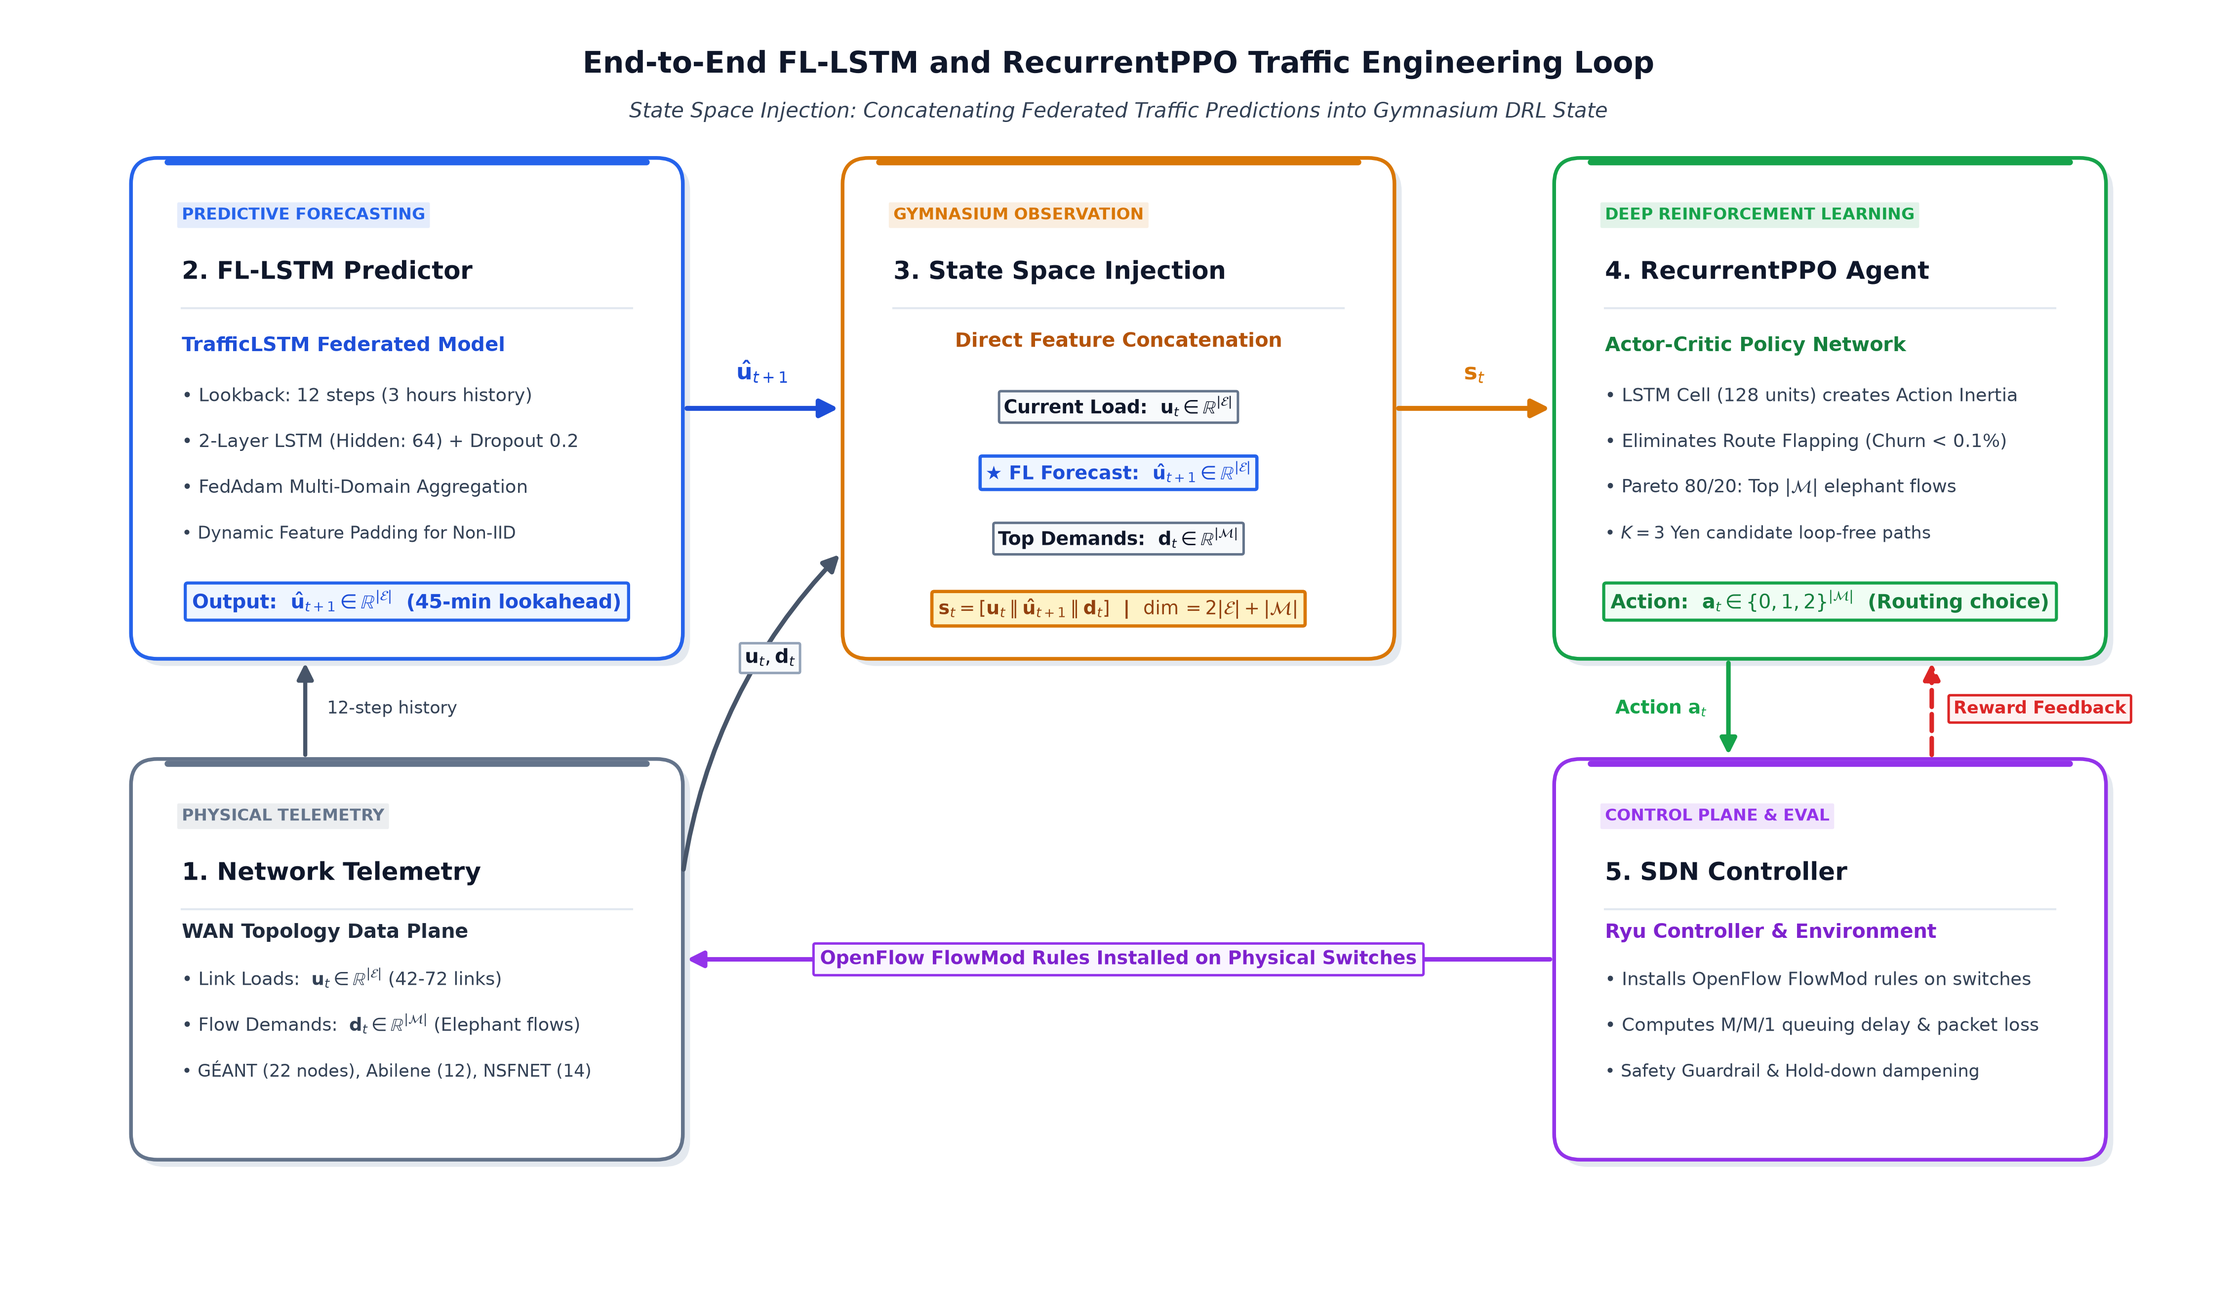
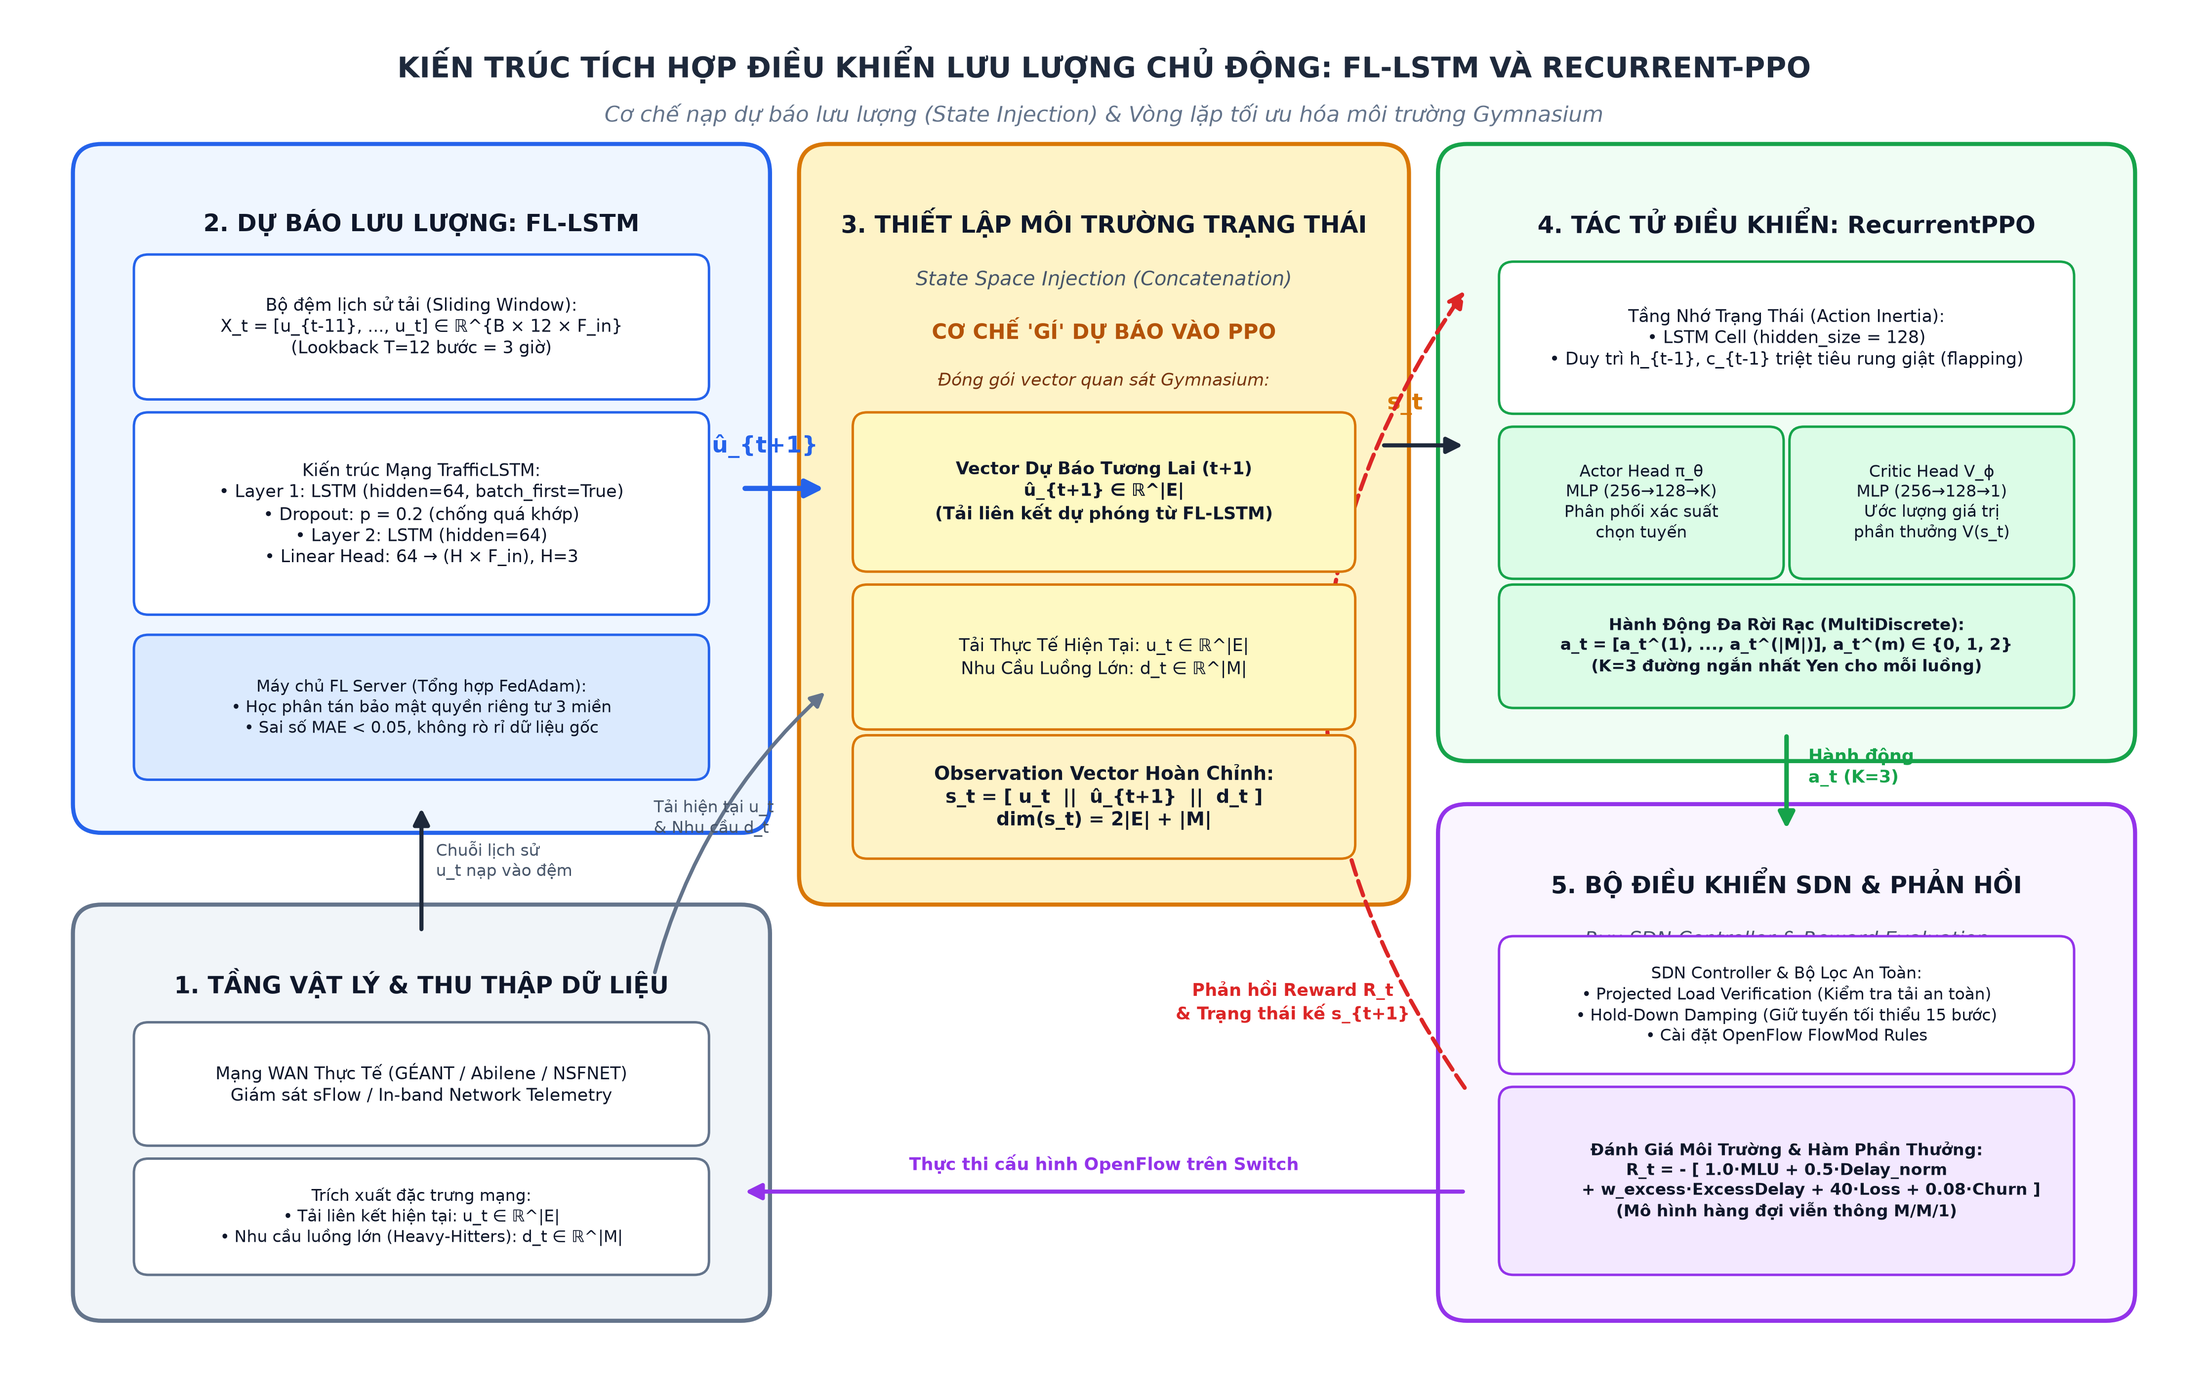
Fix transfer box spacing collision in NSFNET/Abilene and replace AI fig_lstm_ppo_env with clean python vector diagram

diff --git a/scratch/extracted_architecture_diagram.py b/scratch/extracted_architecture_diagram.py
@@ -1,0 +1,179 @@
+import matplotlib.pyplot as plt
+import matplotlib.patches as patches
+
+# Set high-DPI and modern styling
+plt.rcParams['font.sans-serif'] = 'DejaVu Sans'
+plt.rcParams['font.family'] = 'sans-serif'
+
+fig, ax = plt.subplots(figsize=(15, 9.5), dpi=300)
+ax.set_xlim(0, 15)
+ax.set_ylim(0, 9.5)
+ax.axis('off')
+
+# Color palette
+c_telemetry = "#F1F5F9"      # Slate light
+c_telemetry_b = "#64748B"    # Slate border
+c_fl = "#EFF6FF"             # Blue light
+c_fl_b = "#2563EB"           # Blue border
+c_fusion = "#FEF3C7"         # Amber light
+c_fusion_b = "#D97706"       # Amber border
+c_ppo = "#F0FDF4"            # Green light
+c_ppo_b = "#16A34A"          # Green border
+c_sdn = "#FAF5FF"            # Purple light
+c_sdn_b = "#9333EA"          # Purple border
+c_text_dark = "#0F172A"
+
+def draw_box(ax, x, y, w, h, bg_color, border_color, title, subtitle="", radius=0.2, lw=2.0):
+    rect = patches.FancyBboxPatch(
+        (x, y), w, h,
+        boxstyle=f"round,pad={radius},rounding_size=0.2",
+        linewidth=lw, edgecolor=border_color, facecolor=bg_color, zorder=2
+    )
+    ax.add_patch(rect)
+    if title:
+        ax.text(x + w/2, y + h - 0.35, title, ha='center', va='center',
+                fontsize=11.5, fontweight='bold', color=c_text_dark, zorder=3)
+    if subtitle:
+        ax.text(x + w/2, y + h - 0.75, subtitle, ha='center', va='center',
+                fontsize=9.5, fontstyle='italic', color="#475569", zorder=3)
+    return rect
+
+def draw_sub_box(ax, x, y, w, h, bg_color, border_color, text, fontsize=9, bold=False):
+    rect = patches.FancyBboxPatch(
+        (x, y), w, h,
+        boxstyle="round,pad=0.08,rounding_size=0.1",
+        linewidth=1.2, edgecolor=border_color, facecolor=bg_color, zorder=4
+    )
+    ax.add_patch(rect)
+    weight = 'bold' if bold else 'normal'
+    ax.text(x + w/2, y + h/2, text, ha='center', va='center',
+            fontsize=fontsize, fontweight=weight, color=c_text_dark, zorder=5)
+    return rect
+
+# Title Banner
+ax.text(7.5, 9.15, "KIẾN TRÚC TÍCH HỢP ĐIỀU KHIỂN LƯU LƯỢNG CHỦ ĐỘNG: FL-LSTM VÀ RECURRENT-PPO",
+        ha='center', va='center', fontsize=14, fontweight='bold', color="#1E293B")
+ax.text(7.5, 8.8, "Cơ chế nạp dự báo lưu lượng (State Injection) & Vòng lặp tối ưu hóa môi trường Gymnasium",
+        ha='center', va='center', fontsize=10.5, fontstyle='italic', color="#64748B")
+
+# ==========================================
+# 1. PHYSICAL & TELEMETRY PLANE (Bottom-Left)
+# ==========================================
+draw_box(ax, 0.6, 0.6, 4.4, 2.5, c_telemetry, c_telemetry_b,
+         "1. TẦNG VẬT LÝ & THU THẬP DỮ LIỆU", "Physical Telemetry & Ingestion")
+
+draw_sub_box(ax, 0.9, 1.7, 3.8, 0.7, "#FFFFFF", c_telemetry_b,
+             "Mạng WAN Thực Tế (GÉANT / Abilene / NSFNET)\nGiám sát sFlow / In-band Network Telemetry", fontsize=8.5)
+draw_sub_box(ax, 0.9, 0.8, 3.8, 0.65, "#FFFFFF", c_telemetry_b,
+             "Trích xuất đặc trưng mạng:\n• Tải liên kết hiện tại: u_t ∈ ℝ^|E|\n• Nhu cầu luồng lớn (Heavy-Hitters): d_t ∈ ℝ^|M|", fontsize=8)
+
+# ==========================================
+# 2. FL-LSTM PREDICTION PLANE (Top-Left)
+# ==========================================
+draw_box(ax, 0.6, 4.0, 4.4, 4.4, c_fl, c_fl_b,
+         "2. DỰ BÁO LƯU LƯỢNG: FL-LSTM", "TrafficLSTM Predictor (Lookahead = 45 phút)")
+
+draw_sub_box(ax, 0.9, 6.9, 3.8, 0.85, "#FFFFFF", c_fl_b,
+             "Bộ đệm lịch sử tải (Sliding Window):\nX_t = [u_{t-11}, ..., u_t] ∈ ℝ^{B × 12 × F_in}\n(Lookback T=12 bước = 3 giờ)", fontsize=8.5)
+
+draw_sub_box(ax, 0.9, 5.4, 3.8, 1.25, "#FFFFFF", c_fl_b,
+             "Kiến trúc Mạng TrafficLSTM:\n• Layer 1: LSTM (hidden=64, batch_first=True)\n• Dropout: p = 0.2 (chống quá khớp)\n• Layer 2: LSTM (hidden=64)\n• Linear Head: 64 → (H × F_in), H=3", fontsize=8.5)
+
+draw_sub_box(ax, 0.9, 4.25, 3.8, 0.85, "#DBEAFE", c_fl_b,
+             "Máy chủ FL Server (Tổng hợp FedAdam):\n• Học phân tán bảo mật quyền riêng tư 3 miền\n• Sai số MAE < 0.05, không rò rỉ dữ liệu gốc", fontsize=8)
+
+# ==========================================
+# 3. STATE INJECTION FUSION (Center)
+# ==========================================
+draw_box(ax, 5.6, 3.5, 3.8, 4.9, c_fusion, c_fusion_b,
+         "3. THIẾT LẬP MÔI TRƯỜNG TRẠNG THÁI", "State Space Injection (Concatenation)")
+
+ax.text(7.5, 7.3, "CƠ CHẾ 'GÍ' DỰ BÁO VÀO PPO", ha='center', va='center',
+        fontsize=10, fontweight='bold', color="#B45309", zorder=3)
+ax.text(7.5, 6.95, "Đóng gói vector quan sát Gymnasium:", ha='center', va='center',
+        fontsize=8.5, fontstyle='italic', color="#78350F", zorder=3)
+
+draw_sub_box(ax, 5.85, 5.7, 3.3, 0.95, "#FEF9C3", c_fusion_b,
+             "Vector Dự Báo Tương Lai (t+1)\nû_{t+1} ∈ ℝ^|E|\n(Tải liên kết dự phóng từ FL-LSTM)", fontsize=8.5, bold=True)
+
+draw_sub_box(ax, 5.85, 4.6, 3.3, 0.85, "#FEF9C3", c_fusion_b,
+             "Tải Thực Tế Hiện Tại: u_t ∈ ℝ^|E|\nNhu Cầu Luồng Lớn: d_t ∈ ℝ^|M|", fontsize=8.5)
+
+draw_sub_box(ax, 5.85, 3.7, 3.3, 0.7, "#FEF3C7", c_fusion_b,
+             "Observation Vector Hoàn Chỉnh:\ns_t = [ u_t  ||  û_{t+1}  ||  d_t ]\ndim(s_t) = 2|E| + |M|", fontsize=9, bold=True)
+
+# ==========================================
+# 4. RECURRENTPPO AGENT (Top-Right)
+# ==========================================
+draw_box(ax, 10.0, 4.5, 4.4, 3.9, c_ppo, c_ppo_b,
+         "4. TÁC TỬ ĐIỀU KHIỂN: RecurrentPPO", "MlpLstmPolicy với Quán Tính Hành Động")
+
+draw_sub_box(ax, 10.3, 6.8, 3.8, 0.9, "#FFFFFF", c_ppo_b,
+             "Tầng Nhớ Trạng Thái (Action Inertia):\n• LSTM Cell (hidden_size = 128)\n• Duy trì h_{t-1}, c_{t-1} triệt tiêu rung giật (flapping)", fontsize=8.5)
+
+draw_sub_box(ax, 10.3, 5.65, 1.8, 0.9, "#DCFCE7", c_ppo_b,
+             "Actor Head π_θ\nMLP (256→128→K)\nPhân phối xác suất\nchọn tuyến", fontsize=8)
+
+draw_sub_box(ax, 12.3, 5.65, 1.8, 0.9, "#DCFCE7", c_ppo_b,
+             "Critic Head V_ϕ\nMLP (256→128→1)\nƯớc lượng giá trị\nphần thưởng V(s_t)", fontsize=8)
+
+draw_sub_box(ax, 10.3, 4.75, 3.8, 0.7, "#DCFCE7", c_ppo_b,
+             "Hành Động Đa Rời Rạc (MultiDiscrete):\na_t = [a_t^(1), ..., a_t^(|M|)], a_t^(m) ∈ {0, 1, 2}\n(K=3 đường ngắn nhất Yen cho mỗi luồng)", fontsize=8, bold=True)
+
+# ==========================================
+# 5. SDN & CLOSED LOOP (Bottom-Right)
+# ==========================================
+draw_box(ax, 10.0, 0.6, 4.4, 3.2, c_sdn, c_sdn_b,
+         "5. BỘ ĐIỀU KHIỂN SDN & PHẢN HỒI", "Ryu SDN Controller & Reward Evaluation")
+
+draw_sub_box(ax, 10.3, 2.2, 3.8, 0.8, "#FFFFFF", c_sdn_b,
+             "SDN Controller & Bộ Lọc An Toàn:\n• Projected Load Verification (Kiểm tra tải an toàn)\n• Hold-Down Damping (Giữ tuyến tối thiểu 15 bước)\n• Cài đặt OpenFlow FlowMod Rules", fontsize=8)
+
+draw_sub_box(ax, 10.3, 0.8, 3.8, 1.15, "#F3E8FF", c_sdn_b,
+             "Đánh Giá Môi Trường & Hàm Phần Thưởng:\nR_t = - [ 1.0·MLU + 0.5·Delay_norm\n         + w_excess·ExcessDelay + 40·Loss + 0.08·Churn ]\n(Mô hình hàng đợi viễn thông M/M/1)", fontsize=8, bold=True)
+
+# ==========================================
+# ARROWS & DATA CONNECTIONS
+# ==========================================
+arrow_kw = dict(arrowstyle="-|>", color="#1E293B", lw=2, mutation_scale=16, zorder=6)
+arrow_fl = dict(arrowstyle="-|>", color="#2563EB", lw=2.5, mutation_scale=18, zorder=6)
+arrow_action = dict(arrowstyle="-|>", color="#16A34A", lw=2.2, mutation_scale=16, zorder=6)
+arrow_fb = dict(arrowstyle="-|>", color="#DC2626", lw=2, ls="--", mutation_scale=16, zorder=6)
+
+# Telemetry -> FL
+ax.annotate("", xy=(2.8, 4.0), xytext=(2.8, 3.1), arrowprops=arrow_kw)
+ax.text(2.9, 3.5, "Chuỗi lịch sử\nu_t nạp vào đệm", fontsize=8, color="#475569")
+
+# Telemetry -> Fusion
+ax.annotate("", xy=(5.6, 4.8), xytext=(4.4, 2.8),
+            arrowprops=dict(arrowstyle="-|>", color="#64748B", lw=1.8, mutation_scale=14,
+                            connectionstyle="arc3,rad=-0.15"))
+ax.text(4.4, 3.8, "Tải hiện tại u_t\n& Nhu cầu d_t", fontsize=8, color="#475569")
+
+# FL Predictor -> Fusion (THE KEY INJECTION ARROW!)
+ax.annotate("", xy=(5.6, 6.2), xytext=(5.0, 6.2), arrowprops=arrow_fl)
+ax.text(4.8, 6.45, "û_{t+1}", fontsize=11, fontweight='bold', color="#2563EB")
+
+# Fusion -> PPO Agent
+ax.annotate("", xy=(10.0, 6.5), xytext=(9.4, 6.5), arrowprops=arrow_kw)
+ax.text(9.45, 6.75, "s_t", fontsize=11, fontweight='bold', color="#D97706")
+
+# PPO Agent -> SDN Controller
+ax.annotate("", xy=(12.2, 3.8), xytext=(12.2, 4.5), arrowprops=arrow_action)
+ax.text(12.35, 4.15, "Hành động\na_t (K=3)", fontsize=8.5, fontweight='bold', color="#16A34A")
+
+# SDN Controller -> Telemetry (Execution in network)
+ax.annotate("", xy=(5.0, 1.3), xytext=(10.0, 1.3),
+            arrowprops=dict(arrowstyle="-|>", color="#9333EA", lw=2, mutation_scale=16))
+ax.text(7.5, 1.45, "Thực thi cấu hình OpenFlow trên Switch", ha='center', fontsize=8.5, fontweight='bold', color="#9333EA")
+
+# Closed Loop Reward Feedback
+ax.annotate("", xy=(10.0, 7.6), xytext=(10.0, 2.0),
+            arrowprops=dict(arrowstyle="-|>", color="#DC2626", lw=2, ls="--", mutation_scale=16,
+                            connectionstyle="arc3,rad=-0.35"))
+ax.text(8.8, 2.5, "Phản hồi Reward R_t\n& Trạng thái kế s_{t+1}", ha='center', fontsize=8.5, fontweight='bold', color="#DC2626")
+
+plt.tight_layout()
+output_path = "report/figures/fig_lstm_ppo_env.png"
+plt.savefig(output_path, dpi=300, bbox_inches='tight')
+print(f"Successfully generated {output_path}")

diff --git a/scratch/generate_topology_diagrams_v3.py b/scratch/generate_topology_diagrams_v3.py
@@ -208,56 +208,56 @@ def draw_topology_diagram_v3(topo_key, output_path):
     # =========================================================================
     # TIER 1: CENTRAL MANAGEMENT PLANE (Cloud / Central NOC)
     # =========================================================================
-    top_box = FancyBboxPatch((10, 75.5), 80, 16.5, boxstyle="round,pad=0.8,rounding_size=2.0",
+    top_box = FancyBboxPatch((13.0, 75.5), 77.0, 16.5, boxstyle="round,pad=0.8,rounding_size=2.0",
                              ec="#0284c7", fc="#f8fafc", lw=2, zorder=2)
     ax.add_patch(top_box)
     
-    ax.text(50, 89.5, "GLOBAL MANAGEMENT PLANE  (Central Cloud / ISP NOC)",
+    ax.text(51.5, 89.5, "GLOBAL MANAGEMENT PLANE  (Central Cloud / ISP NOC)",
             fontsize=12, fontweight='bold', ha='center', va='center', color="#0369a1")
 
     # 1. Global FL Server
-    fl_srv_box = FancyBboxPatch((13, 77.2), 22, 9.2, boxstyle="round,pad=0.5,rounding_size=1.2",
+    fl_srv_box = FancyBboxPatch((15.0, 77.2), 21.0, 9.2, boxstyle="round,pad=0.5,rounding_size=1.2",
                                 ec="#0284c7", fc="#ffffff", lw=1.5, zorder=3)
     ax.add_patch(fl_srv_box)
-    ax.text(24, 83.7, "Global FL Server", fontsize=10.5, fontweight='bold', ha='center', va='center', color='#0f172a')
-    ax.text(24, 81.2, "• FedAdam / FedAvg", fontsize=8.5, ha='center', va='center', color='#475569')
-    ax.text(24, 79.0, "• Aggregates weights ΔW", fontsize=8, ha='center', va='center', color='#64748b')
+    ax.text(25.5, 83.7, "Global FL Server", fontsize=10.5, fontweight='bold', ha='center', va='center', color='#0f172a')
+    ax.text(25.5, 81.2, "• FedAdam / FedAvg", fontsize=8.5, ha='center', va='center', color='#475569')
+    ax.text(25.5, 79.0, "• Aggregates weights ΔW", fontsize=8, ha='center', va='center', color='#64748b')
 
     # 2. RecurrentPPO Agent
-    rl_box = FancyBboxPatch((38, 77.2), 25, 9.2, boxstyle="round,pad=0.5,rounding_size=1.2",
+    rl_box = FancyBboxPatch((38.5, 77.2), 24.5, 9.2, boxstyle="round,pad=0.5,rounding_size=1.2",
                             ec="#16a34a", fc="#ffffff", lw=1.5, zorder=3)
     ax.add_patch(rl_box)
-    ax.text(50.5, 83.7, "RecurrentPPO TE Agent", fontsize=10.5, fontweight='bold', ha='center', va='center', color='#0f172a')
-    ax.text(50.5, 81.2, "• Actor-Critic with LSTM", fontsize=8.5, ha='center', va='center', color='#475569')
-    ax.text(50.5, 79.0, "• Computes global TE paths", fontsize=8, ha='center', va='center', color='#64748b')
+    ax.text(50.7, 83.7, "RecurrentPPO TE Agent", fontsize=10.5, fontweight='bold', ha='center', va='center', color='#0f172a')
+    ax.text(50.7, 81.2, "• Actor-Critic with LSTM", fontsize=8.5, ha='center', va='center', color='#475569')
+    ax.text(50.7, 79.0, "• Computes global TE paths", fontsize=8, ha='center', va='center', color='#64748b')
 
     # 3. Admission Guard
-    guard_box = FancyBboxPatch((66, 77.2), 21, 9.2, boxstyle="round,pad=0.5,rounding_size=1.2",
+    guard_box = FancyBboxPatch((65.5, 77.2), 22.0, 9.2, boxstyle="round,pad=0.5,rounding_size=1.2",
                                ec="#dc2626", fc="#ffffff", lw=1.5, zorder=3)
     ax.add_patch(guard_box)
     ax.text(76.5, 83.7, "Admission Guard", fontsize=10.5, fontweight='bold', ha='center', va='center', color='#0f172a')
     ax.text(76.5, 81.2, "• Projected Load Verifier", fontsize=8.5, ha='center', va='center', color='#475569')
     ax.text(76.5, 79.0, "• Fallback to Shortest Path", fontsize=8, ha='center', va='center', color='#64748b')
 
-    # Side badges for Transfer & Fine-Tuning
+    # Side badges for Transfer & Fine-Tuning (Ample breathing room, zero collision!)
     if topo_key == 'nsfnet':
-        t_box = FancyBboxPatch((1.5, 76), 7.5, 15.5, boxstyle="round,pad=0.4,rounding_size=1.0",
+        t_box = FancyBboxPatch((1.5, 76.0), 8.2, 15.5, boxstyle="round,pad=0.3,rounding_size=1.0",
                                ec="#9333ea", fc="#faf5ff", lw=1.5, zorder=3)
         ax.add_patch(t_box)
-        ax.text(5.25, 88.0, "GÉANT", fontsize=9, fontweight='bold', ha='center', va='center', color='#7e22ce')
-        ax.text(5.25, 85.5, "Weights", fontsize=8.5, ha='center', va='center', color='#7e22ce')
-        ax.text(5.25, 81.0, "Zero-Shot\nTransfer\n&\nFine-Tune", fontsize=7.5, ha='center', va='center', color='#6b21a8')
-        arrow = FancyArrowPatch((9.2, 83.5), (12.8, 83.5), arrowstyle='->', mutation_scale=15, color='#9333ea', lw=2)
+        ax.text(5.6, 88.0, "GÉANT", fontsize=9, fontweight='bold', ha='center', va='center', color='#7e22ce')
+        ax.text(5.6, 85.5, "Weights", fontsize=8.5, ha='center', va='center', color='#7e22ce')
+        ax.text(5.6, 81.0, "Zero-Shot\nTransfer\n&\nFine-Tune", fontsize=7.5, ha='center', va='center', color='#6b21a8')
+        arrow = FancyArrowPatch((9.9, 83.5), (14.6, 83.5), arrowstyle='->', mutation_scale=15, color='#9333ea', lw=2)
         ax.add_patch(arrow)
 
     elif topo_key == 'abilene':
-        t_box = FancyBboxPatch((1.5, 76), 7.5, 15.5, boxstyle="round,pad=0.4,rounding_size=1.0",
+        t_box = FancyBboxPatch((1.5, 76.0), 8.2, 15.5, boxstyle="round,pad=0.3,rounding_size=1.0",
                                ec="#9333ea", fc="#faf5ff", lw=1.5, zorder=3)
         ax.add_patch(t_box)
-        ax.text(5.25, 88.0, "GÉANT", fontsize=9, fontweight='bold', ha='center', va='center', color='#7e22ce')
-        ax.text(5.25, 85.5, "Weights", fontsize=8.5, ha='center', va='center', color='#7e22ce')
-        ax.text(5.25, 80.5, "Zero-Padding\n(174d → 75d)\n&\nFine-Tune", fontsize=7, ha='center', va='center', color='#6b21a8')
-        arrow = FancyArrowPatch((9.2, 83.5), (12.8, 83.5), arrowstyle='->', mutation_scale=15, color='#9333ea', lw=2)
+        ax.text(5.6, 88.0, "GÉANT", fontsize=9, fontweight='bold', ha='center', va='center', color='#7e22ce')
+        ax.text(5.6, 85.5, "Weights", fontsize=8.5, ha='center', va='center', color='#7e22ce')
+        ax.text(5.6, 80.5, "Zero-Padding\n(174d → 75d)\n&\nFine-Tune", fontsize=7, ha='center', va='center', color='#6b21a8')
+        arrow = FancyArrowPatch((9.9, 83.5), (14.6, 83.5), arrowstyle='->', mutation_scale=15, color='#9333ea', lw=2)
         ax.add_patch(arrow)
 
     # =========================================================================
